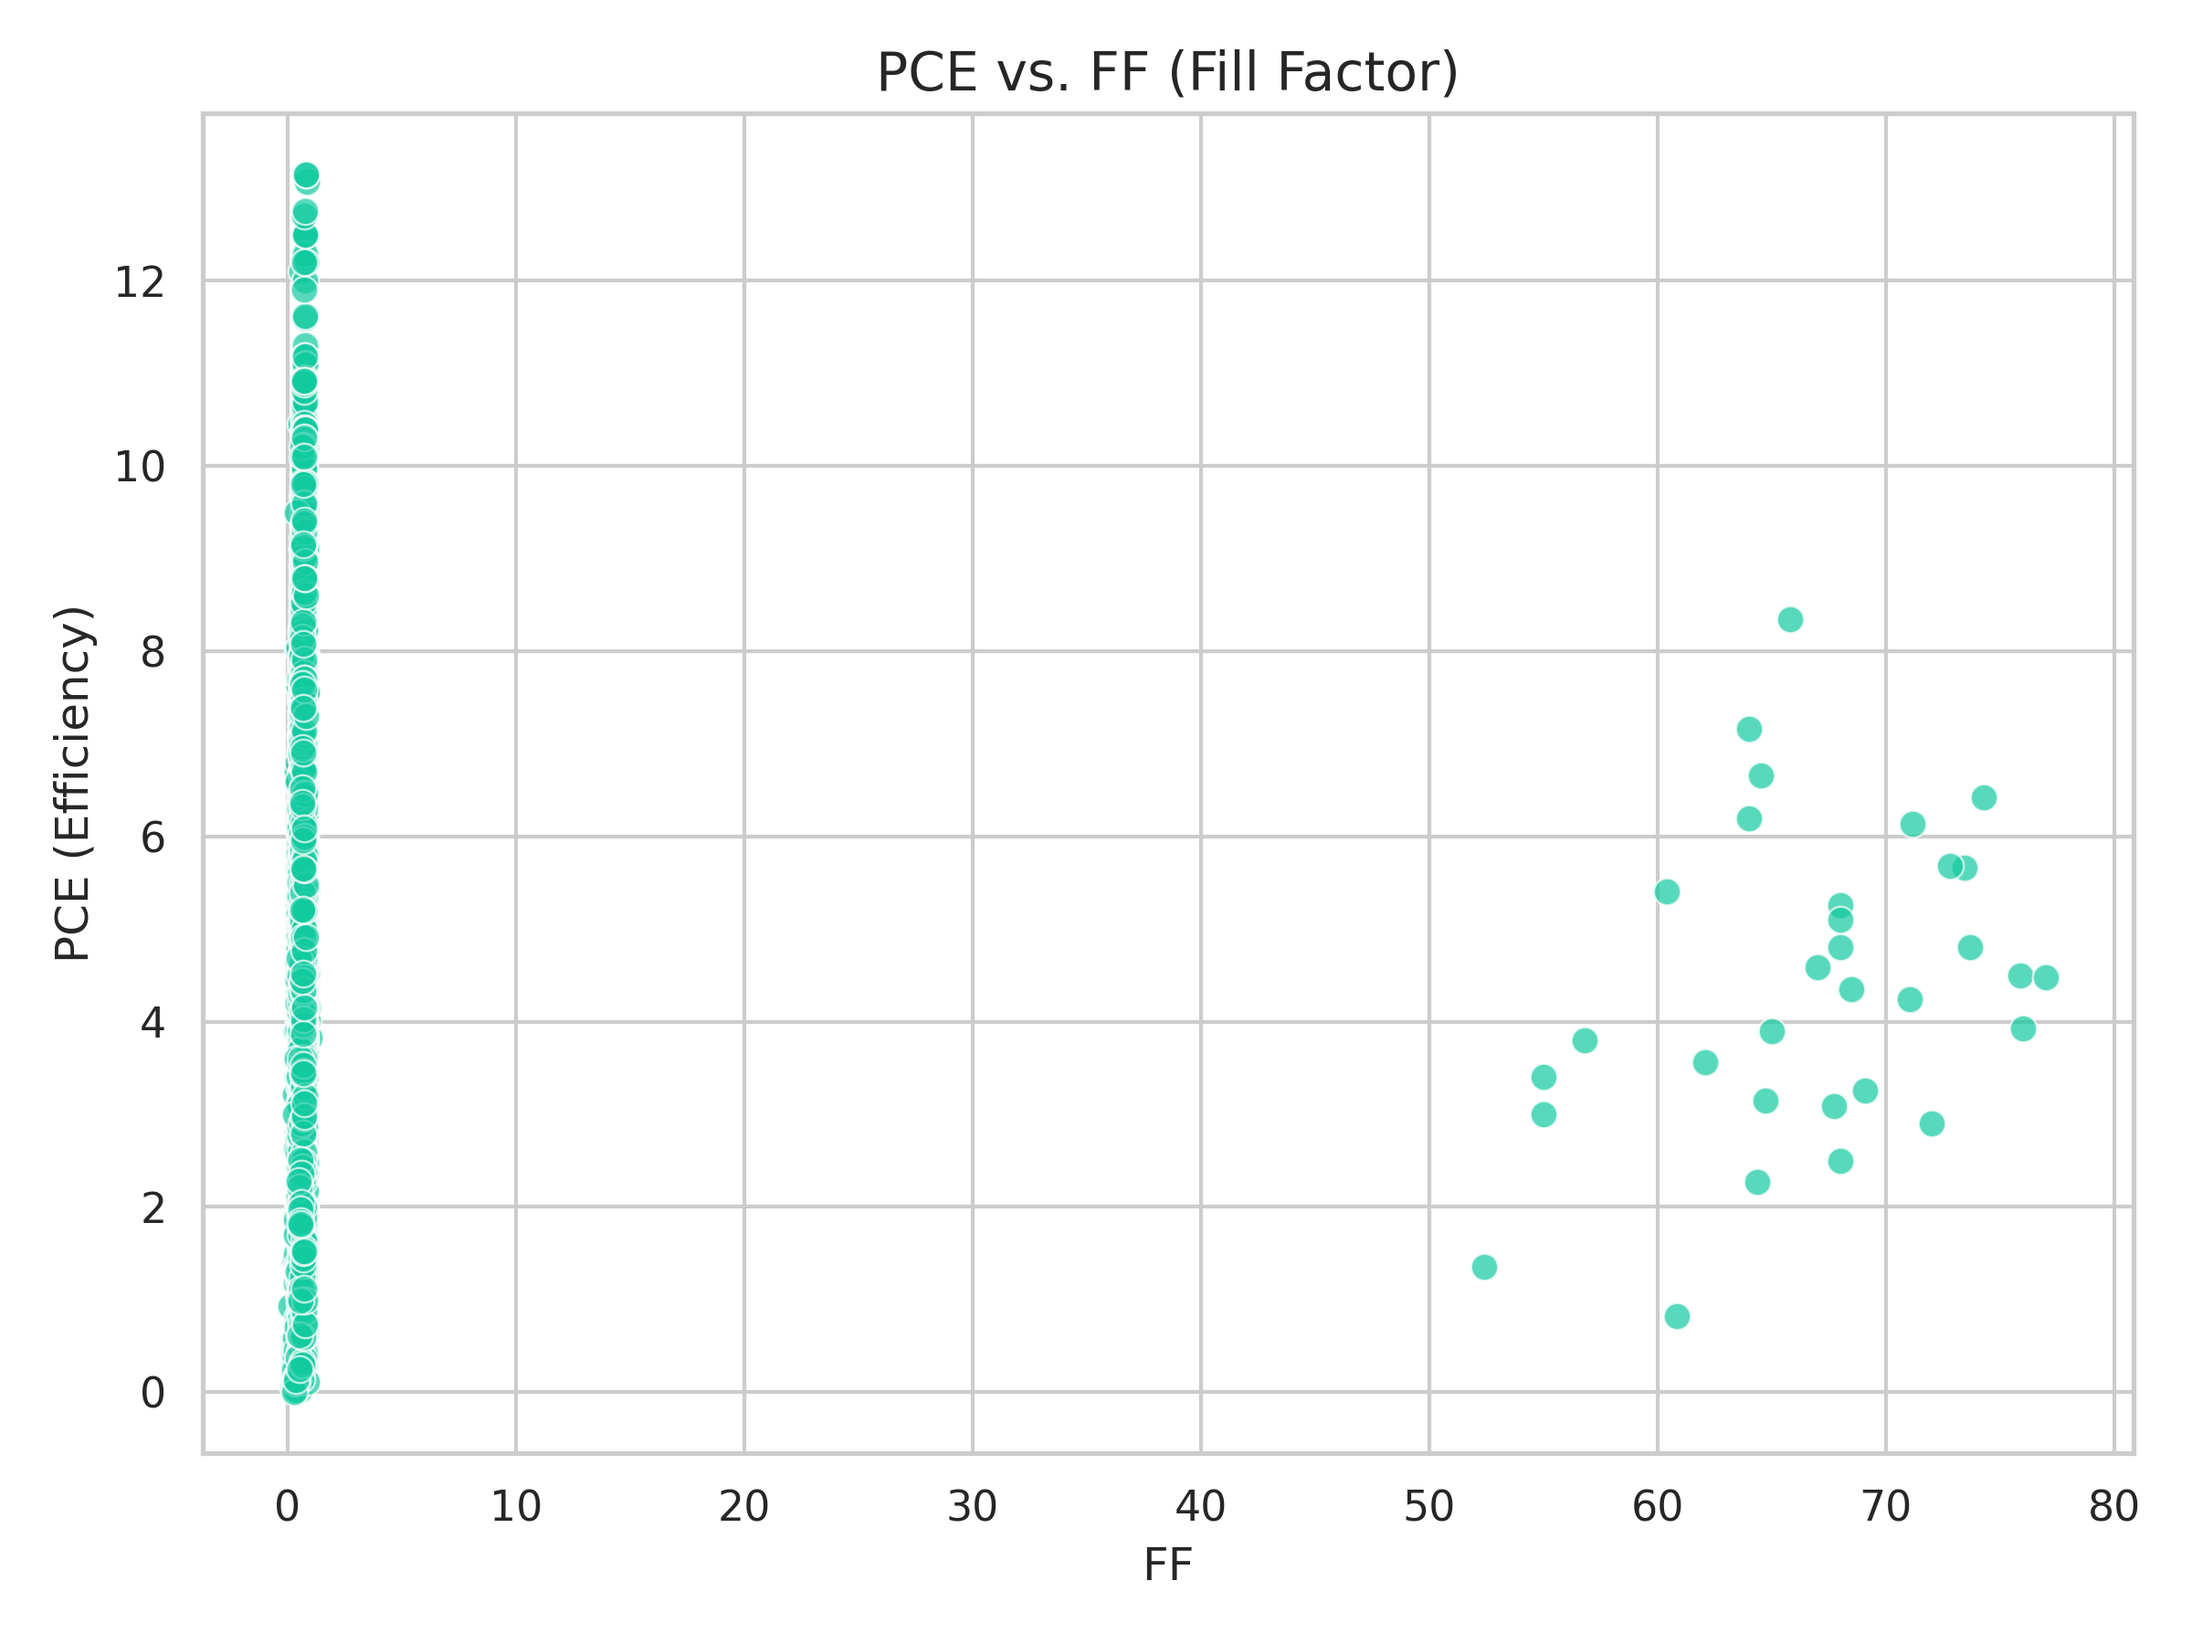
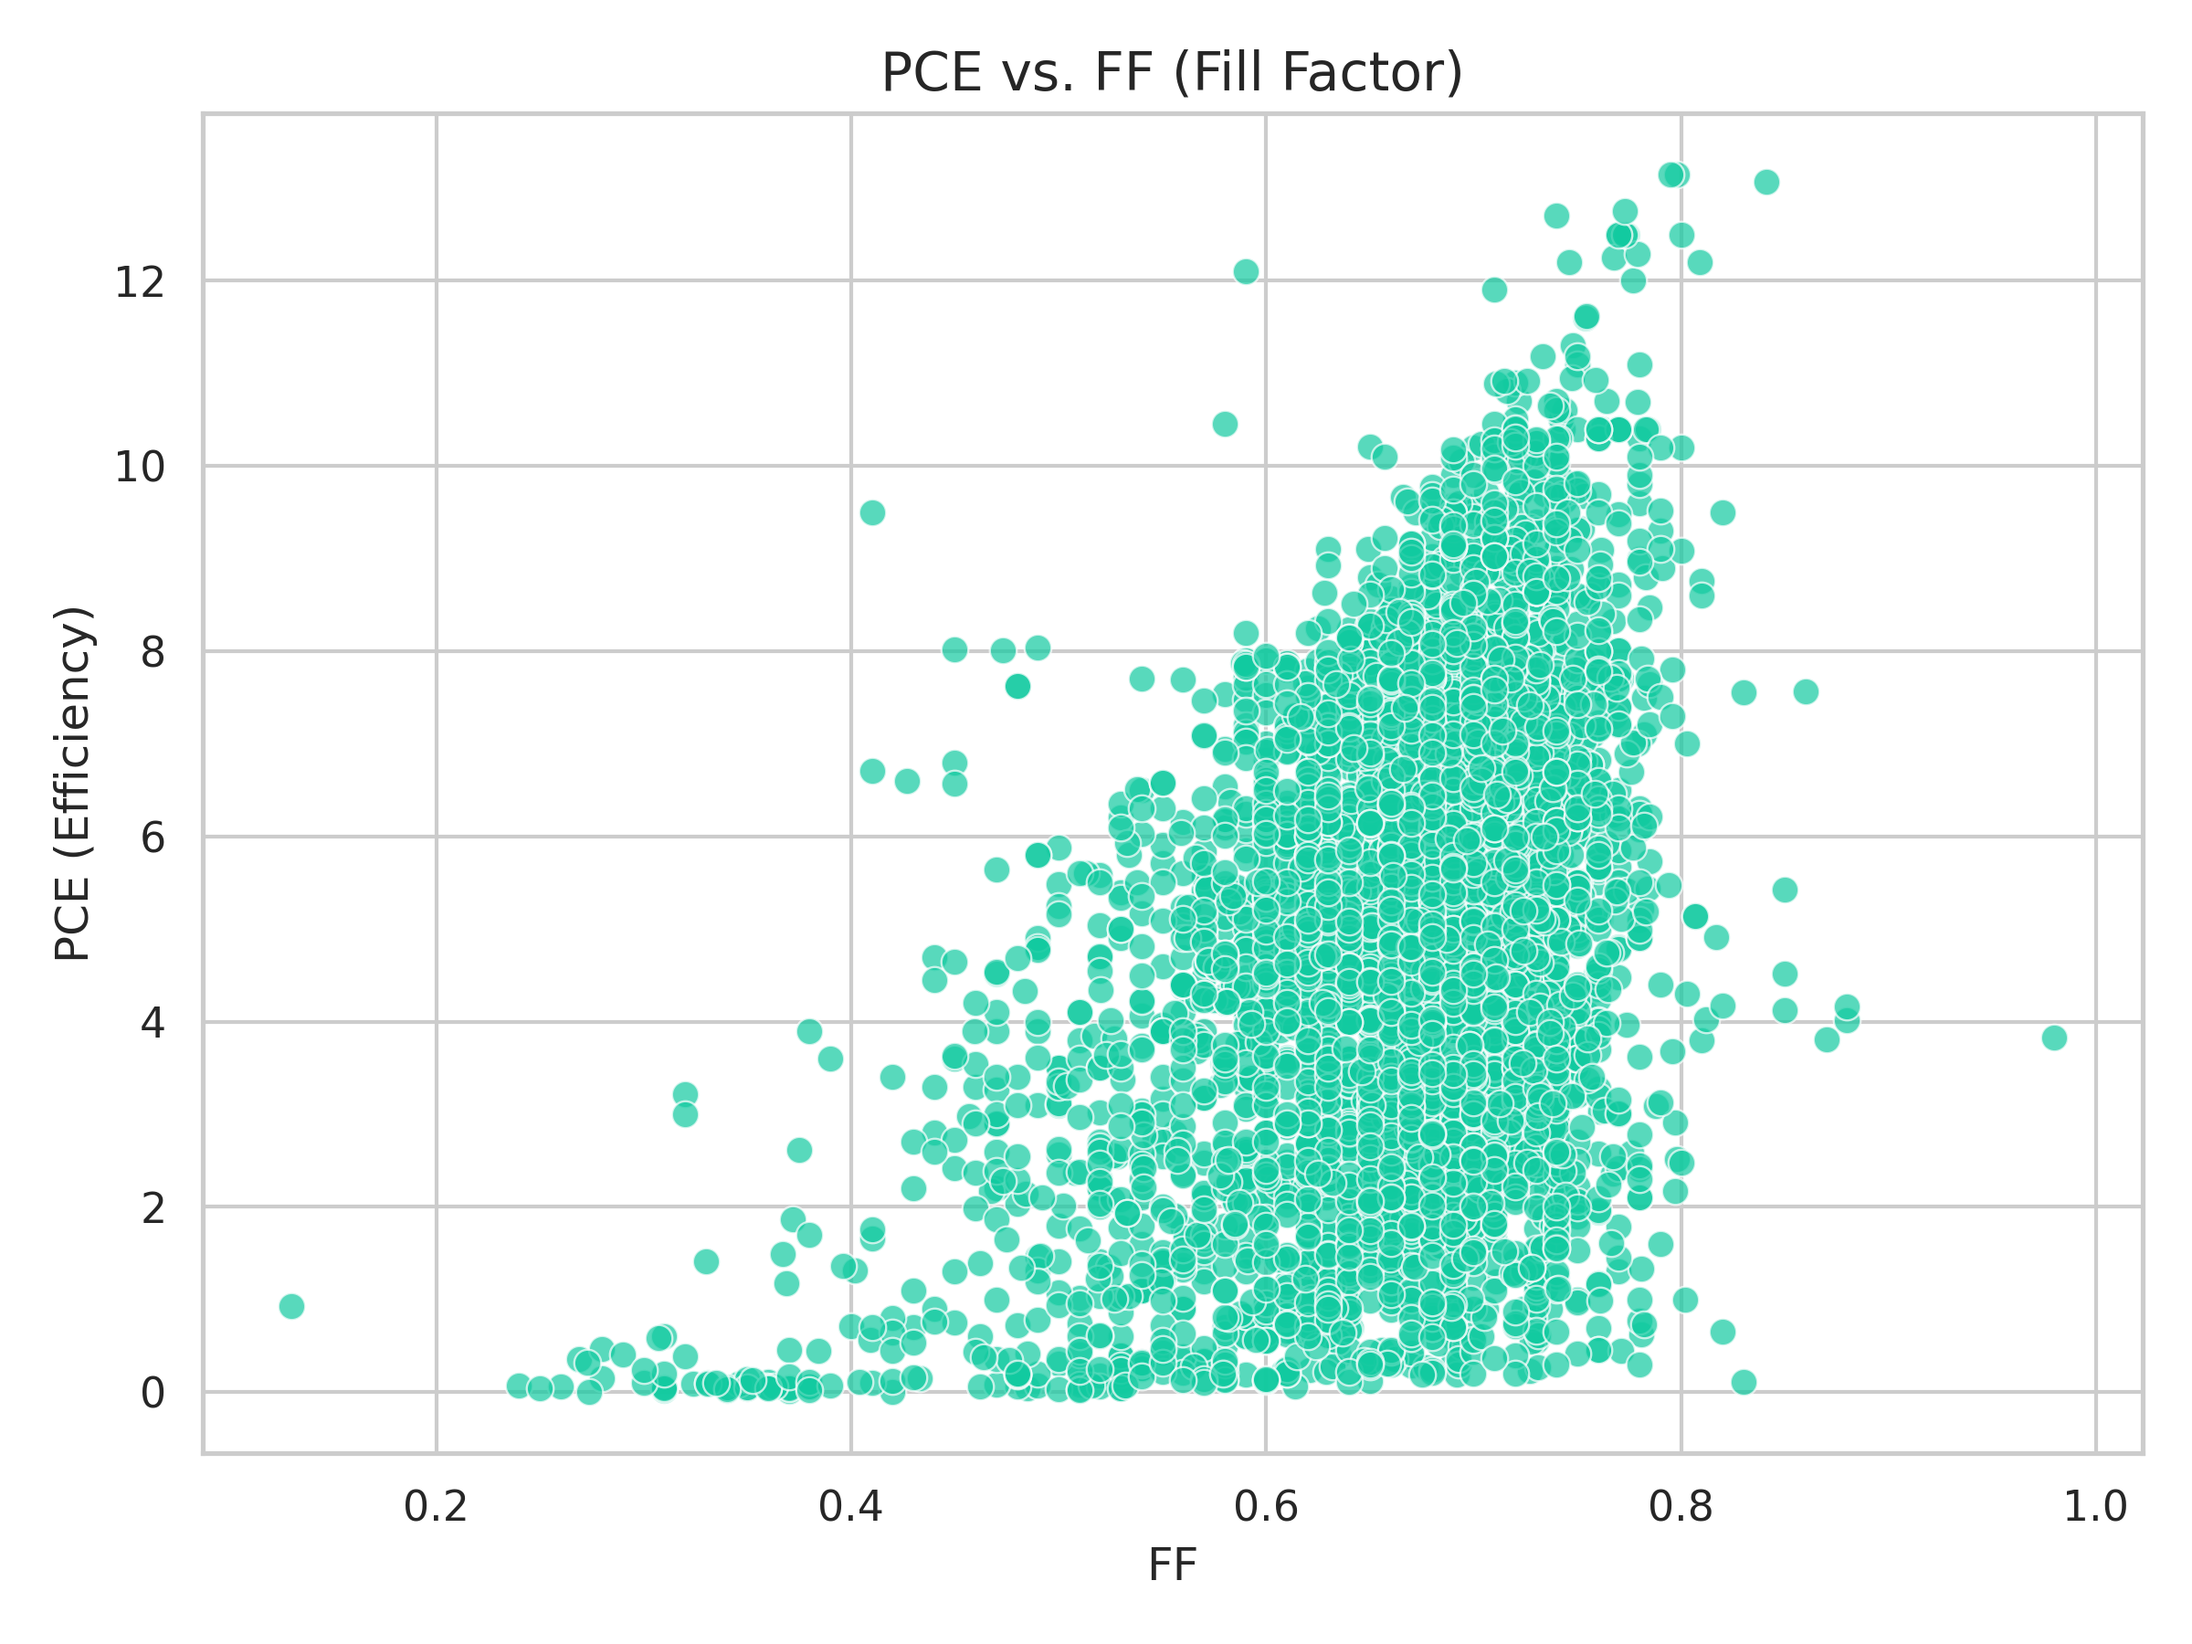
Commit all workspace changes including downloaded data.csv and modified code

diff --git a/preveiw.py b/preveiw.py
@@ -4,7 +4,7 @@ import seaborn as sns
 
 # 1. Load your specific dataset
 # Ensure 'ML_Ready_Dataset.csv' is in the same folder as your Python script
-df = pd.read_csv('ML_Ready_Dataset.csv')
+df = pd.read_csv('data.csv')
 
 # Set the visual style for the plots
 sns.set_theme(style="whitegrid")

diff --git a/Predicting_RF.py b/Predicting_RF.py
@@ -8,7 +8,7 @@ import warnings
 warnings.filterwarnings('ignore', category=UserWarning)
 
 # 1. Load your specific dataset
-df = pd.read_csv('ML_Ready_Dataset.csv')
+df = pd.read_csv('data.csv')
 
 # 2. Define Features (X) and Target (y)
 X = df[['VOC', 'JSC', 'FF']]
